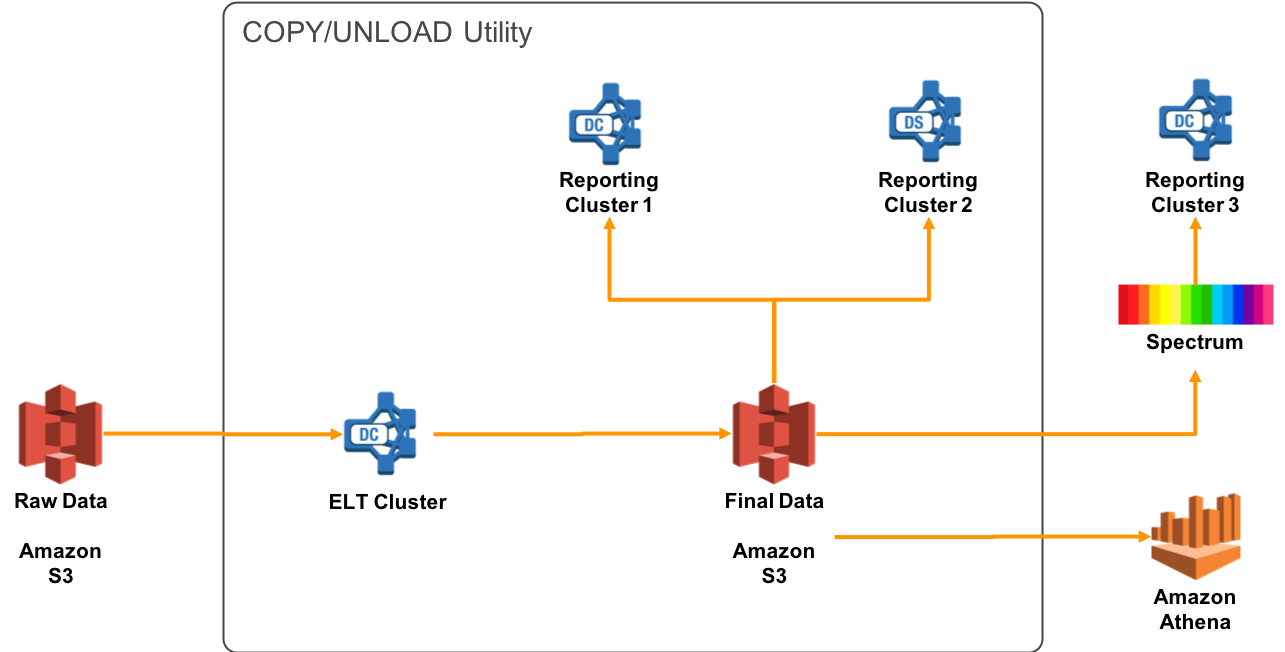
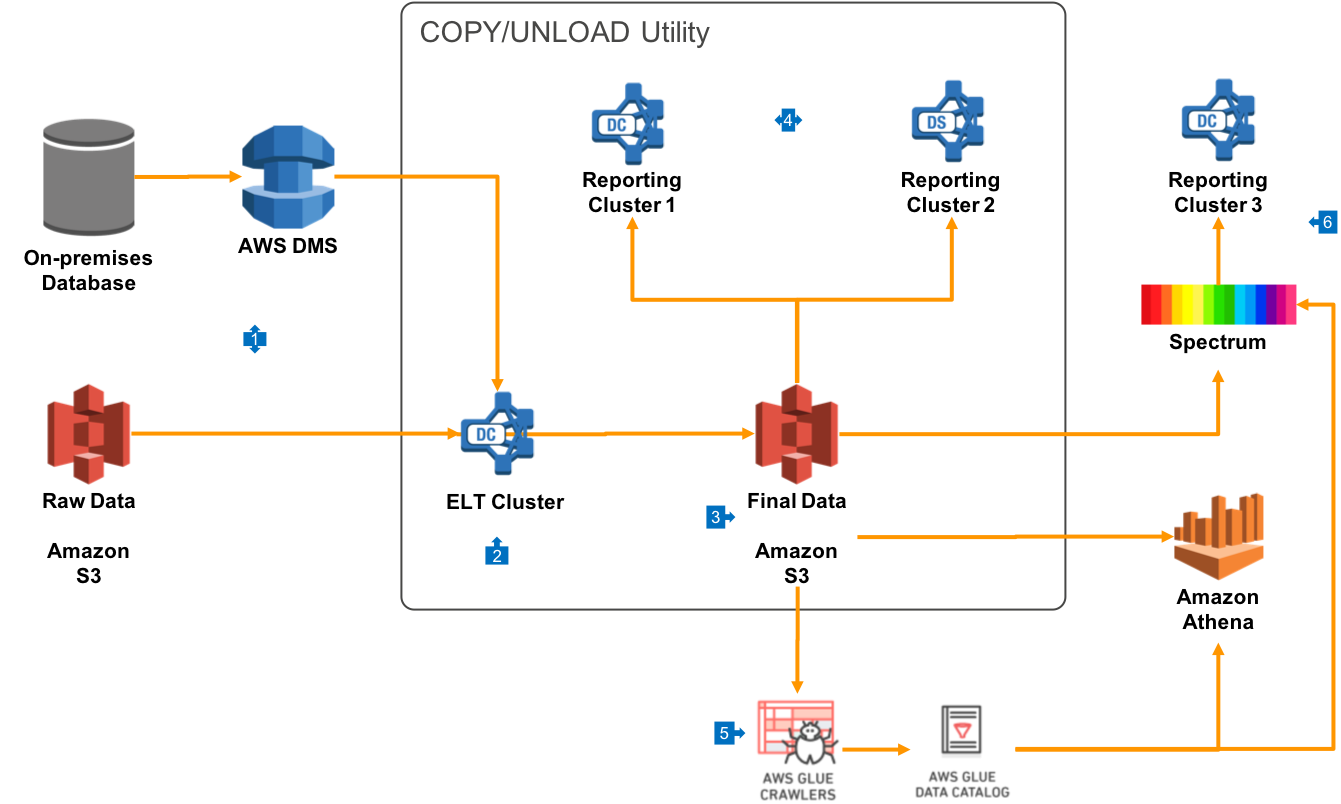
Drop of several core pages with image updates and text

diff --git a/public-routing/README.md b/public-routing/README.md
@@ -1,15 +1,18 @@
 # Redshift cluster architecture to support connections from anywhere
 
 ## Overview
+This the most basic architecture that we recommend to be used with Amazon Redshift, where connections are routed into [Amazon Virtual Private Cloud (VPC)](https://aws.amazon.com/vpc) via routing to public IP addresses. Use this architecture when you want:
+
+* A simple environment for connecting end users without DirectConnect
 
 ![Public Connections](public-routing.png)
 
 ## Walkthrough of the Architecture
 
-1. In this architecture, we deploy Redshift to [Amazon Virtual Private Cloud (VPC)](https://aws.amazon.com/vpc), as will be the case for all our other architectures. VPC supports public subnets, which are routable from an Internet Gateway, and private subnets which are not. We recommend that Redshift be run in private subnets, which gives you the maximum security and control over how connections are made to the Cluster.
-2. In order to create the cluster, we must configure a [Cluster Subnet Group](https://docs.aws.amazon.com/redshift/latest/mgmt/working-with-cluster-subnet-groups.html), which identifies the list of subnets where we want to run the cluster. It is a best practice _to create cluster Subnet Groups that span [Availability Zones (AZ)](https://docs.aws.amazon.com/AWSEC2/latest/UserGuide/using-regions-availability-zones.html)_. In the extremely unlikely case that an AZ goes offline, having your Cluster Subnet Group span AZ's will make it very easy to replace the cluster in another AZ with the same security architecture and routing rules.
+1. In this architecture, we deploy Redshift to VPC, as will be the case for all our other architectures. VPC supports public subnets, which are routable from an Internet Gateway, and private subnets which are not. We recommend that Redshift be run in private subnets, which gives you the maximum security and control over how connections are made to the Cluster.
+2. In order to create the cluster, we must configure a [Cluster Subnet Group](https://docs.aws.amazon.com/redshift/latest/mgmt/working-with-cluster-subnet-groups.html), which identifies the list of subnets where we want to run the cluster. It is a best practice _to create cluster Subnet Groups that span [Availability Zones (AZ)](https://docs.aws.amazon.com/AWSEC2/latest/UserGuide/using-regions-availability-zones.html)_. In the extremely unlikely case that an AZ goes offline, having your Cluster Subnet Group span AZ's will make it very easy to replace the cluster in another AZ with the same security architecture and routing rules. This diagram shows just 2 AZ's, but you can extend across as many AZ's as you wish to use in a Region.
 3. Your VPC will have both Private and Public Subnets, as in this architecture you will connect to resources in the VPC using Public IP addresses. In this architecture, you'll [create a VPC Routing Table](https://docs.aws.amazon.com/AmazonVPC/latest/UserGuide/VPC_Scenario2.html) that will allow connections to resources in Public Subnets from the Internet Gateway, but only allow connections to the Private Subnets from Public Subnets.
 4. Connections to your environment can be made by your end users using [Amazon Workspaces](https://aws.amazon.com/workspaces), a powerful Virtual Desktop Interface (VDI) in the Cloud. This gives you the ability to present all of your third party reporting tools via a managed applicaiton environment. You may also offer [Bastion Hosts](https://docs.aws.amazon.com/quickstart/latest/linux-bastion/architecture.html) or Remote Desktop based Instances using EC2 in order to administer your environment.
-5. Web connections made from your end users will terminate on an [Application Load Balancer](https://docs.aws.amazon.com/elasticloadbalancing/latest/application/introduction.html) which is presented in a Public Subnet. This allows your third-party reporting servers (such as Tableau or Looker) to be deployed into Private Subnets, and increases the control you have over where connections originate and how they are handled.
+5. Web connections made from your end users will terminate on an [Application Load Balancer (ALB)](https://docs.aws.amazon.com/elasticloadbalancing/latest/application/introduction.html) which is presented in a Public Subnet. This allows your third-party reporting servers (such as Tableau or Looker) to be deployed into Private Subnets, and increases the control you have over where connections originate and how they are handled. In some cases, the third-party software vendor may not support ALB, in which case you can use a Classic Load Balancer (ELB) instead.
 6. Your Redshift Cluster, Reporting Server, Workspaces, Bastion/RDP Hosts and ALB can all share a [VPC Security Group](https://docs.aws.amazon.com/AmazonVPC/latest/UserGuide/VPC_SecurityGroups.html), which is a software filewall that allows connections only from members of the group, and on only the ports that you configure.
 7. When Redshift connects to Amazon S3, it will route out of your VPC via an Internet Gateway, where it will then hit the S3 endpoint for the specified region.

diff --git a/private-routing/README.md b/private-routing/README.md
@@ -1,3 +1,18 @@
 # Redshift cluster architecture to support private connections
 
+## Overview
+This is perhaps the most common deployment architecture for Redshift clusters - deployed within private subnets in VPC that are only accessible over private, leased lines, through [DirectConnect](https://aws.amazon.com/directconnect). Use this architecture when you want:
+
+* Connections only from your office or corporate data centre
+* The ability to require encrypted connections to all resources in your VPC
+
 ![Private Connections](private-routing.png)
+
+## Walkthrough of the Architecture
+
+1. As with the architecture that uses Public Routing, we'll build this architecture on the AWS [Amazon Virtual Private Cloud (VPC)](https://aws.amazon.com/vpc), but instead of using Public Subnets, this VPC will only have Private Subnets. Also, as with public routing, we'll create a [Cluster Subnet Group](https://docs.aws.amazon.com/redshift/latest/mgmt/working-with-cluster-subnet-groups.html) that spans AZ's to facilitate cluster restores and high availability.
+2. Also similar to the Public Routing architecture, third-party reporting tools will be created within the private subnets where the Redshift clusters can be deployed. However, in this model, the Application Load Balancers aren't in public subnets, but also in the same private subnets. This gives a convenient way for clients to connect to the third-party servers, as well as supporting upgrades to new versions etc.
+3. As with the Public Routing architecture, the Redshift Cluster and third-party reporting tools are in the same VPC Security Group. This architecture can also support Bastion/RDP hosts for administration, but are omitted for simplicity
+4. Redshift clusters that perform COPY/UNLOAD can access Amazon S3 via an [S3 Gateway Endpoint](https://docs.aws.amazon.com/AmazonVPC/latest/UserGuide/vpc-endpoints.html) which exposes S3 within your VPC without requiring an Internet Gateway. In this configuration, [turn on 'Enhanced VPC Routing'](https://docs.aws.amazon.com/redshift/latest/mgmt/enhanced-vpc-working-with-endpoints.html) within your Redshift cluster configuration.
+5. This architecture is designed secure connections to Redshift that come from only authorised endpoints on the other side of a private connection. Amazon [DirectConnect](https://aws.amazon.com/directconnect) is provisioned in this environment, and provides 1 and 10Gbit connections over private leased lines, directly into AWS Regions. In this model, you may also wish to [build hardware based VPN](https://aws.amazon.com/premiumsupport/knowledge-center/create-vpn-direct-connect/) tunnels over the DirectConnect.
+6. Once the DirectConnect connection is in place, it can be exposed to one or more VPC's via [Private Virtual Interfaces (VIF)](https://docs.aws.amazon.com/directconnect/latest/UserGuide/WorkingWithVirtualInterfaces.html). This VIF is configured to allow routing into all Private Subnets in the VPC, which will enable end user customers in corporate offices, or applications in a corporate data centre, to connect directly to Redshift or third-party reporting servers.

diff --git a/business-line-clusters/README.md b/business-line-clusters/README.md
@@ -1,3 +1,16 @@
 # Business Line Clusters
 
+## Overview
+
+This architecture provides you with the ability to run multiple Redshift clusters that are each sized to meet the requirements of separate groups of end users. You may create these clusters based on Business Units, or based upon how your end users use the data. For example, some users just need prebuilt reports, where others require deep ad-hoc analysis against all your data.
+
 ![Business Line Clusters](business-line-clusters.png)
+
+## Walkthrough of the Architecture
+
+1. In this architecture, all your raw data is received into a primary cluster which is used for Extract/Load/Transform operations. This will include receiving raw data feeds from Amazon S3, but also may include on-premises RDBMS data being replicated into Redshift with AWS [Data Migration Service (DMS)](https://aws.amazon.com/dms).
+2. Data in your primary cluster is transformed using 'pushdown SQL' operations, where data is manipulated in bulk using SQL statements directly, or through views. This will take advantage of the massively parallel nature of Redshift to transform the data, and may be done through a scheduler or a third-party ETL tool like [Talend](https://aws.amazon.com/marketplace/seller-profile?id=94c7a8d1-1a64-4a59-b364-9248619fb75f) or [Matillion](https://aws.amazon.com/marketplace/pp/B010ED5YF8?qid=1524495459622&sr=0-2&ref_=srh_res_product_image).
+3. The [Redshift UNLOAD/COPY utility](https://github.com/awslabs/amazon-redshift-utils/tree/master/src/UnloadCopyUtility) can be used to export a copy of data after transformation to a form suitable for query analysis. This data should be compressed, and will typically take the form of a separate S3 prefix per table, and then additional prefixes for date based partitions. It's a best practice to create separate prefixes for Year, Month and Day. If you use [Hive Dynamic Partition](https://cwiki.apache.org/confluence/display/Hive/DynamicPartitions) notation in the S3 prefix structure (of the form `/PartitionColumnName=PartitionValue/`, then partitions will be automatically recognised by most query tools.
+4. Data can be loaded using the UNLOAD/COPY utility into any number of additional Redshift clusters. Each of these clusters can select a [node type and count](https://docs.aws.amazon.com/redshift/latest/mgmt/working-with-clusters.html#rs-about-clusters-and-nodes) that meet the needs of the particular business unit.
+5. Final data in S3 should be analyzed by [AWS Glue Crawlers](https://docs.aws.amazon.com/glue/latest/dg/add-crawler.html) on a periodic basis, and it will be entered into the Glue Data Catalog.
+6. The same final data that is loaded directly into multiple business line clusters can also be presented to a group of end users via raw queries using S3 data via Redshift Spectrum. This is a good option if users of this cluster have a read-only use case and local storage is not required.

diff --git a/README.md b/README.md
@@ -78,16 +78,6 @@ In some cases, you'll want to expose data from Redshift to applications and webs
 
 </td></tr></table>
 
-### Loading data with Kinesis Firehose
-
-### [Access from Amazon Quicksight](quicksight-connections)
-
-<table><tr><td><a href="https://github.com/aws-samples/aws-dbs-refarch-redshift/tree/master/quicksight-connections"><img src="https://github.com/aws-samples/aws-dbs-refarch-redshift/blob/master/quicksight-connections/thumbnail.png"/></a></td><td>
-
-[Amazon Quicksight](https://aws.amazon.com/quicksight) is a fast, cloud-powered business analytics service that makes it easy to build visualizations, perform ad-hoc analysis, and quickly get business insights from your data. Amazon Redshift is one of the most common engines for analysis, and connecting to Quicksight requires only a couple of steps.
-
-</td></tr></table>
-
 ## License Summary
 
 This sample code is made available under a modified MIT license. See the LICENSE file.
